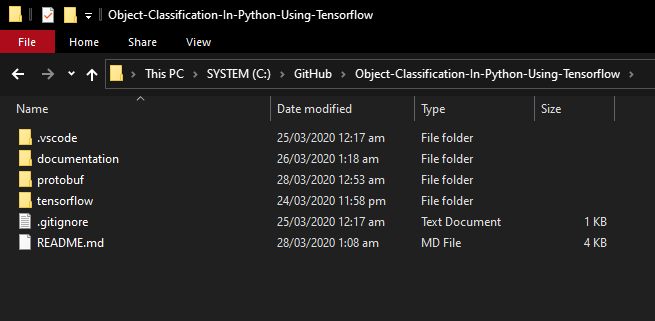
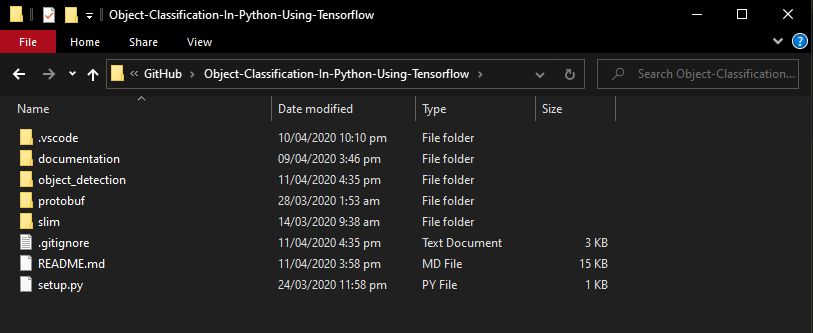
updated guide to align with the directory restructure

diff --git a/README.md b/README.md
@@ -111,7 +111,7 @@ C:\GitHub\Object-Classification-In-Python-Using-Tensorflow
 
 4. Create a new System Variable called **PYTHONPATH** with these values:
 ```
-C:\GitHub\Object-Classification-In-Python-Using-Tensorflow\tensorflow\models; C:\GitHub\Object-Classification-In-Python-Using-Tensorflow\tensorflow\models\research; C:\GitHub\Object-Classification-In-Python-Using-Tensorflow\tensorflow\models\research\object_detection; C:\GitHub\Object-Classification-In-Python-Using-Tensorflow\tensorflow\models\research\slim
+C:\GitHub\Object-Classification-In-Python-Using-Tensorflow; C:\GitHub\Object-Classification-In-Python-Using-Tensorflow\object_detection; C:\GitHub\Object-Classification-In-Python-Using-Tensorflow\slim
 ```
 
 5. Your new Sytem Variable should look like this:
@@ -136,7 +136,7 @@ C:\GitHub\Object-Classification-In-Python-Using-Tensorflow
 
 3. On your existing **Anaconda** command window, type in this command to navigate to the **research** folder:
 ```
-(tensorflow) C:\>cd C:\GitHub\Object-Classification-In-Python-Using-Tensorflow\tensorflow\models\research
+(tensorflow) C:\>cd C:\GitHub\Object-Classification-In-Python-Using-Tensorflow
 ```
 
 4. Compile the **.protos** files into **.py** using this command:
@@ -145,9 +145,9 @@ C:\GitHub\Object-Classification-In-Python-Using-Tensorflow
 ```
 5. Build and Install:
 ```
-(tensorflow) C:\GitHub\Object-Classification-In-Python-Using-Tensorflow\tensorflow\models\research>python setup.py build
+(tensorflow) C:\GitHub\Object-Classification-In-Python-Using-Tensorflow>python setup.py build
 
-(tensorflow) C:\GitHub\Object-Classification-In-Python-Using-Tensorflow\tensorflow\models\research>python setup.py install
+(tensorflow) C:\GitHub\Object-Classification-In-Python-Using-Tensorflow>python setup.py install
 ```
 
 
@@ -161,16 +161,16 @@ _You can use your phone to take pictures of the objects or download images of th
 
 1. Create these two folders:
 ```
-C:\GitHub\Object-Classification-In-Python-Using-Tensorflow\tensorflow\models\research\object_detection\images\train
+C:\GitHub\Object-Classification-In-Python-Using-Tensorflow\object_detection\images\train
 
-C:\GitHub\Object-Classification-In-Python-Using-Tensorflow\tensorflow\models\research\object_detection\images\test
+C:\GitHub\Object-Classification-In-Python-Using-Tensorflow\object_detection\images\test
 ```
 
 2. Put about **80%** of your images in the **train** folder and **20%** on the **test**.
 
 3. The images should be resized to at least **800x600**. On the command-line, issue these one after another:
 ```
-cd C:\GitHub\Object-Classification-In-Python-Using-Tensorflow\tensorflow\models\research\object_detection
+cd C:\GitHub\Object-Classification-In-Python-Using-Tensorflow\object_detection
 
 python image-resize.py -d images/train/ -s 800 600
 
@@ -186,7 +186,7 @@ python image-resize.py -d images/test/ -s 800 600
 
 2. Extract the contents into:
 ```
-C:\GitHub\Object-Classification-In-Python-Using-Tensorflow\tensorflow\models\research\object_detection\images
+C:\GitHub\Object-Classification-In-Python-Using-Tensorflow\object_detection\images
 ```
 
 3. Update the **predefined_classes.txt** inside the **data** folder according to the obects you're going to work with.
@@ -212,31 +212,31 @@ C:\GitHub\Object-Classification-In-Python-Using-Tensorflow\tensorflow\models\res
 
 # Generating TF Records for training
 
-1. Go to the **object_detection** folder on the terminal:
+1. Go to the **object_detection** folder on the terminal by usinf this command:
 ```
-cd C:\GitHub\Object-Classification-In-Python-Using-Tensorflow\tensorflow\models\research\object_detection
+cd C:\GitHub\Object-Classification-In-Python-Using-Tensorflow\object_detection
 ```
 
 2. Transform the **.xml** files in the **train** and **test** folders by executing the **xml_to_csv.py**:
 ```
-(tensorflow) C:\GitHub\Object-Classification-In-Python-Using-Tensorflow>python xml_to_csv.py
+(tensorflow) C:\GitHub\Object-Classification-In-Python-Using-Tensorflow\object_detection>python xml_to_csv.py
 ```
 
 3. This will generate **test_labels.csv** and **train_labels.csv** inside the **images** folder.
 
 4. Update the **class_text_to_int()** class at **line 31** inside the **generate_tfrecords.py** according to the labels you used. In this case:
 ```
-def class_text_to_int(row_label):
-    if row_label == 'tuna':
-        return 1
-    elif row_label == 'dalagang bukid':
-        return 2
-    elif row_label == 'tilapia':
-        return 3
-    elif row_label == 'bangus':
-        return 4
-    else:
-        return None
+[line 31]   def class_text_to_int(row_label):
+              if row_label == 'tuna':
+                  return 1
+              elif row_label == 'dalagang bukid':
+                  return 2
+              elif row_label == 'tilapia':
+                  return 3
+              elif row_label == 'bangus':
+                  return 4
+              else:
+                  return None
 ```
 
 5. Now issue these codes on the command-line to generate **TF Records**:
@@ -255,9 +255,9 @@ python generate_tfrecord.py --csv_input=images/test_labels.csv --image_dir=image
 
 1. Navigate to the folder inside **objet_detection** called **training**.
 
-2. Generate a new file inside the folder and name it **labelmap.pbtxt** (should not be **.txt**).
+2. Open the **labelmap.pbtxt** with a text editor.
 
-3. Open the **labelmap.pbtxt** with a text editor and fill in by following this example. Place your labels according to the arrangement in the **TF Records generator script (generate_tfrecords.py)**. Save the file.
+3. Fill in by following this example. Place your labels according to the arrangement in the **TF Records generator script (generate_tfrecords.py)**. Save the file.
 ```
 item {
     id: 1
@@ -277,23 +277,23 @@ item {
 }
 ```
 
-4. Navigate to the **samples/configs** folder and copy the **faster_rcnn_inception_v2_pets.config** into the **training** folder. Rename it to **model.config**. There is already a **model.config** file existing in the folder. Do this step if you want to use configs other than **faster_rcnn_inception_v2_pets**.
+4. Download **faster_rcnn_inception_v2_coco** from [this page](https://github.com/tensorflow/models/blob/master/research/object_detection/g3doc/detection_model_zoo.md). Create a folder named **model_zoo** in **object_detection** and extract the contents of the file in there.
 
-5. Download **faster_rcnn_inception_v2_coco** from [this page](https://github.com/tensorflow/models/blob/master/research/object_detection/g3doc/detection_model_zoo.md). Create a folder named **model_zoo** in **object_detection** and extract the contents of the file in there.
+5. Navigate to the **samples/configs** folder and copy the **faster_rcnn_inception_v2_pets.config** into the **training** folder. Rename it to **model.config**. There is already a **model.config** file existing in the folder. Do this step if you want to use configs other than **faster_rcnn_inception_v2_pets**.
 
 6. Open the **model.config** in a text editor and change a few lines:
 ```
-[line 009] num_classes: 4     *change the value according to the number of objects you're working with.
+[line 009]    num_classes: 4    *change the value according to the number of objects you're working with.
 
-[line 106] fine_tune_checkpoint: "C:/GitHub/Object-Classification-In-Python-Using-Tensorflow/tensorflow/models/research/object_detection/model_zoo/faster_rcnn_inception_v2_coco_2018_01_28/model.ckpt"
+[line 106]    fine_tune_checkpoint: "C:/GitHub/Object-Classification-In-Python-Using-Tensorflow/tensorflow/models/research/object_detection/model_zoo/faster_rcnn_inception_v2_coco_2018_01_28/model.ckpt"
 
-[line 123] input_path: "C:/GitHub/Object-Classification-In-Python-Using-Tensorflow/tensorflow/models/research/object_detection/train.record"
+[line 123]    input_path: "C:/GitHub/Object-Classification-In-Python-Using-Tensorflow/tensorflow/models/research/object_detection/train.record"
 
-[line 135] input_path: "C:/GitHub/Object-Classification-In-Python-Using-Tensorflow/tensorflow/models/research/object_detection/test.record"
+[line 135]    input_path: "C:/GitHub/Object-Classification-In-Python-Using-Tensorflow/tensorflow/models/research/object_detection/test.record"
 
-[line 125] [line 137] label_map_path: "C:/GitHub/Object-Classification-In-Python-Using-Tensorflow/tensorflow/models/research/object_detection/training/labelmap.pbtxt"
+[line 125] [line 137]   label_map_path: "C:/GitHub/Object-Classification-In-Python-Using-Tensorflow/tensorflow/models/research/object_detection/training/labelmap.pbtxt"
 
-[line 130] num_examples: 8      *change the value according to the numbers of images inside the images/test folder.
+[line 130]    num_examples: 8   *change the value according to the numbers of images inside the images/test folder.
 ```
 
 7. Save the file. Training is now configured.
@@ -305,7 +305,7 @@ item {
 
 1. From the **object_detection** directory, issue the following command:
 ```
-set PYTHONPATH=C:\GitHub\Object-Classification-In-Python-Using-Tensorflow\tensorflow\models; C:\GitHub\Object-Classification-In-Python-Using-Tensorflow\tensorflow\models\research; C:\GitHub\Object-Classification-In-Python-Using-Tensorflow\tensorflow\models\research\slim; C:\GitHub\Object-Classification-In-Python-Using-Tensorflow\tensorflow\models\research\object_detection
+set PYTHONPATH=C:\GitHub\Object-Classification-In-Python-Using-Tensorflow; C:\GitHub\Object-Classification-In-Python-Using-Tensorflow\object_detection;C:\GitHub\Object-Classification-In-Python-Using-Tensorflow\slim
 ```
 
 2. This command should be run everytime the **tensorflow virtual environment** is started. You don't have to do this though if you already have **5th step** on **Cloning the repository**.
@@ -349,21 +349,28 @@ python export_inference_graph.py --input_type image_tensor --pipeline_config_pat
 
 # Using the object detector
 
-1. Open the **object_detection_webcam.py** on the **object_detection** folder and modify the line according to the number of objects you're classifying:
+1. Open the **object_detection_app.py** on the **object_detection** folder and modify the line according to the number of objects you're classifying:
 ```
-[line 26] NUM_CLASSES = 4
+[line 26]   NUM_CLASSES = 4
 ```
 
 2. To use your a camera attached to your computer, execute this in the **object_detection** directory:
 ```
-python object_detection_webcam.py
+python object_detection_app.py
 ```
 
 3. A window will pop-up showing your camera feed. Any object that the **neural network** is trained to classify will be enclosed in a box with the corresponding label and percentage of confidence. Press "q" to quit
 
-4. To use a pre-recorded video, put the video in the **object_detection** directory and set the filename in the **object_detection_app.py** at line 30 thenrun the command:
+4. To use a pre-recorded video, put the video in the **object_detection** directory and set the filename in the **object_detection_app.py** at line 30 then run the command:
 ```
-[line 30] VIDEO_NAME = 'test.mov'
+[line 30]   VIDEO_NAME = 'test.mov'
 
-python object_detection_webcam.py --mode 1
+python object_detection_app.py --mode 1
+```
+
+5. To use a single image, put the file in the **object_detection** directory and set the filename in the **object_detection_app.py** at line 29 then run the command:
+```
+[line 29]   IMAGE_NAME = 'test.jpg'
+
+python object_detection_app.py --mode 2
 ```
